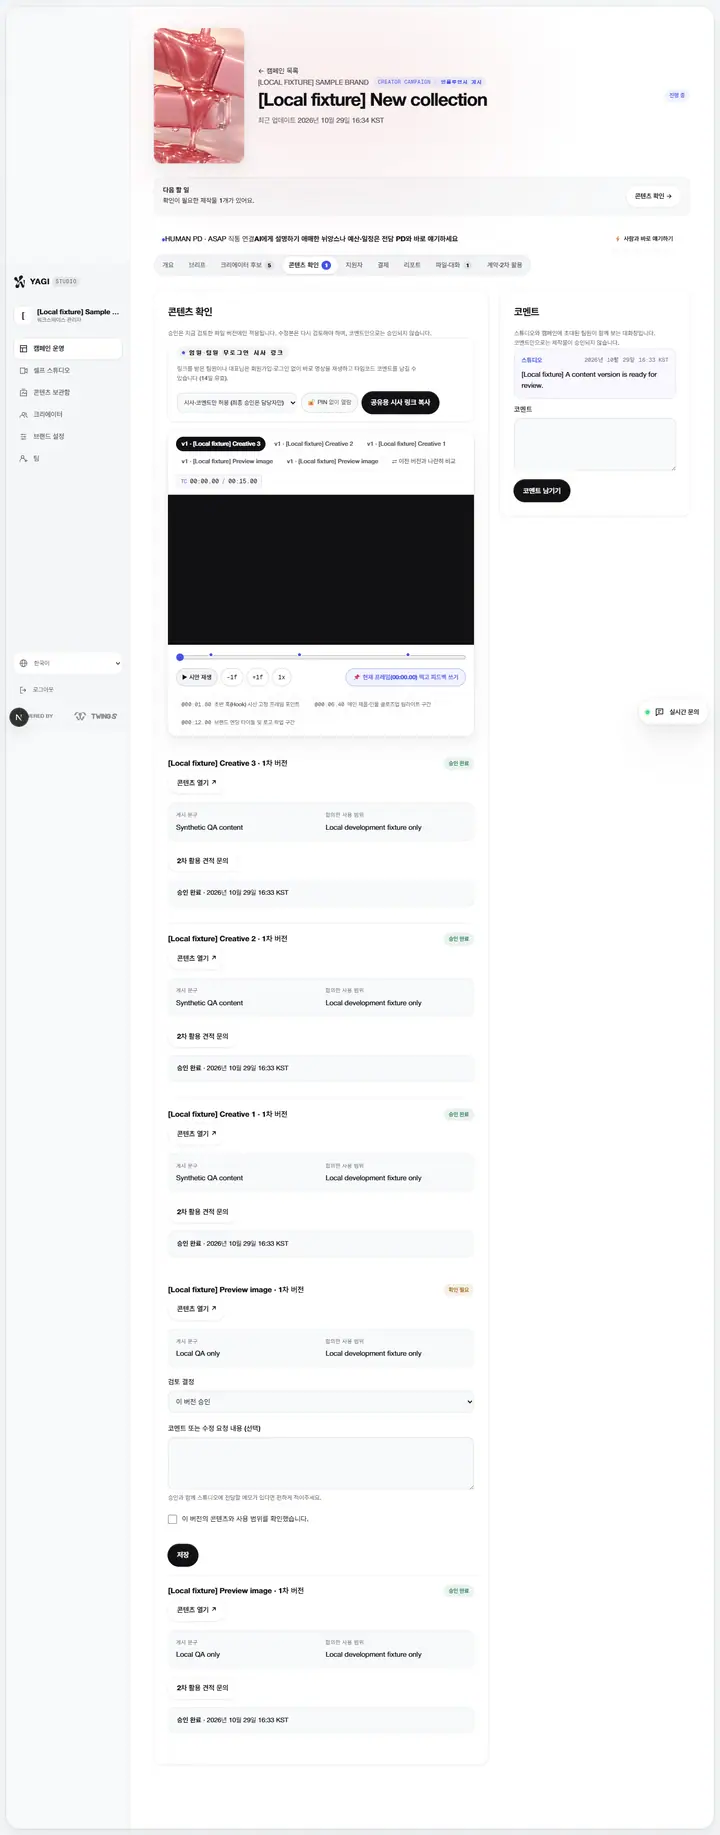
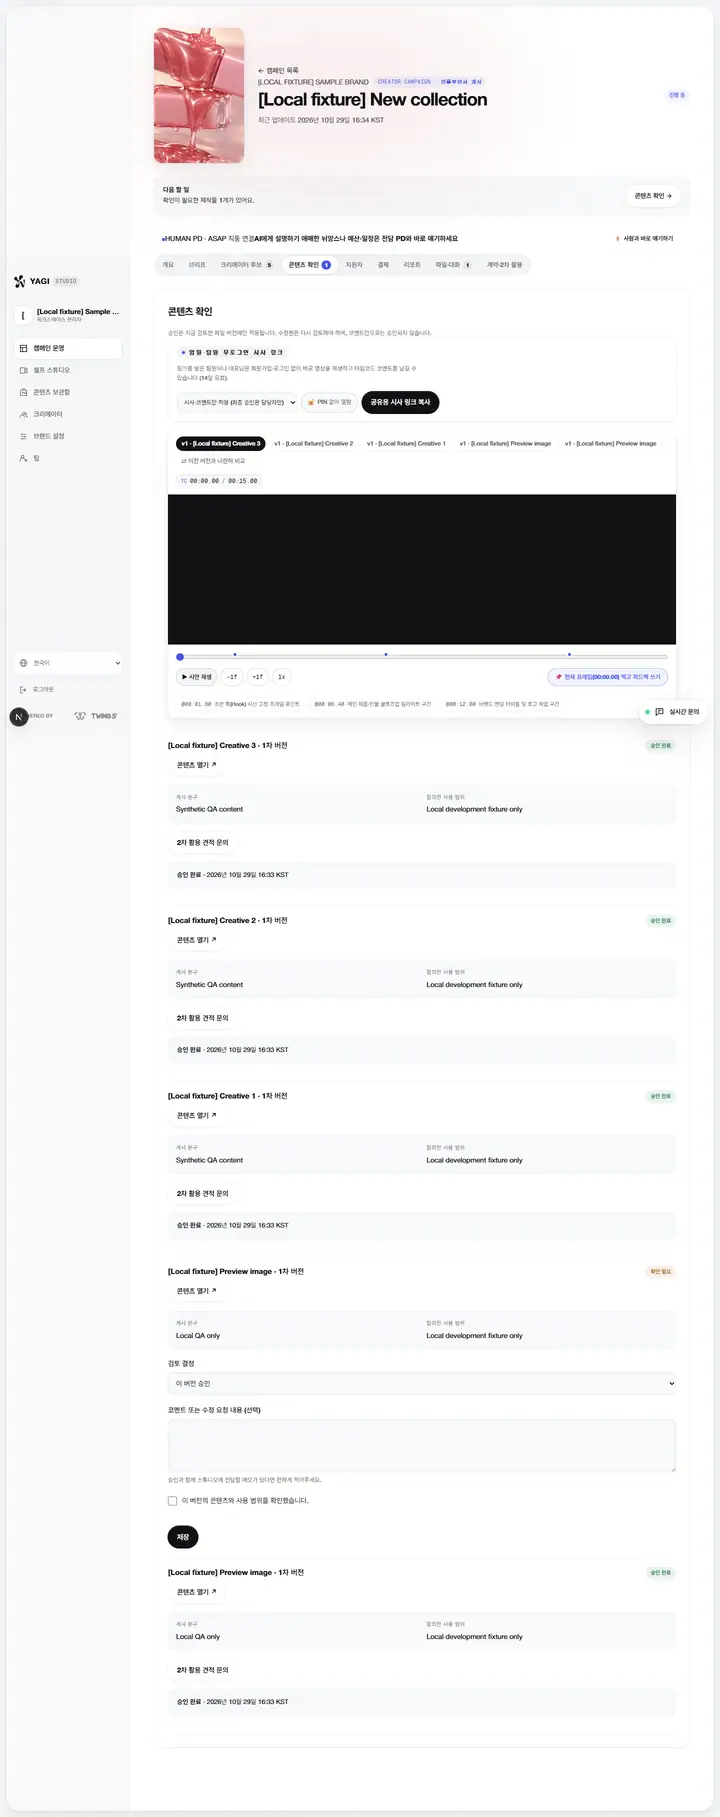
feat(brand): 캠페인 콘텐츠 확인·브리프 탭 오른쪽 대화 패널도 뺀다
대표 지시(2026-10-29, "Remove it too"): 오른쪽 레일 금지를 캠페인 화면의 대화 패널까지 넓힌다.
1024px 이상에서 콘텐츠 확인·브리프 탭 옆에 sticky로 붙던 #conversation 열을 브랜드 호스트에서만
없앤다. 탭은 자기 작업을 전체 폭으로 보이고, 대화는 "파일·대화" 탭에서 그대로 보인다.
/admin의 같은 화면(ProjectDetail 공유)은 기존 배치를 유지한다.

- workspace.css: :where([data-brand-workspace]) 층에서 두 탭의 .bw-grid-wide를 기본(contents)으로
  되돌리고 #conversation을 숨긴다.
- TASTE.md 기록 한 줄, 규칙 3을 "오른쪽 레일(활동·최근 작업·대화 패널) 없음"으로. TOOLBOX §1-2
  "쓰지 않는 것"도 같이. ICM design-taste-twings.
- 테스트: 활동 레일 규칙이 없고, 두 탭의 대화 패널을 브랜드 호스트에서 숨기는지 확인.

확인: 1440폭에서 #conversation이 콘텐츠 확인·브리프 탭에서 display:none, 파일·대화 탭에서 보임.
tsc 0, vitest 342 파일 / 3,273 테스트, build:local 0, sweep:anon 1165/1165. 캠페인 화면 캡처
(ko/en, 1440·390) 다시 찍음, 넘침·잘림·오류 0.

diff --git a/app/(brand)/workspace.css b/app/(brand)/workspace.css
@@ -3479,6 +3479,17 @@ html[data-brand-workspace]::view-transition-group(bw-tab-indicator) { animation-
   transition: opacity 900ms var(--ys-ease);
 }
 :where([data-brand-workspace]) .bw-bleed[data-bleed]::before { opacity: 0.15; }
+/* No right-hand conversation dock on the review and brief tabs (대표 2026-10-29: no right rails on
+   workspace screens). The tab shows only its own work; the conversation keeps its own tab. /admin
+   keeps the dock. */
+@media (min-width: 1024px) {
+  :where([data-brand-workspace]) .bw-project-sections[data-project-tab='review'] .bw-grid-wide,
+  :where([data-brand-workspace]) .bw-project-sections[data-project-tab='brief'] .bw-grid-wide,
+  :where([data-brand-workspace]) .bw-project-sections[data-project-tab='review'] .bw-grid-wide > div,
+  :where([data-brand-workspace]) .bw-project-sections[data-project-tab='brief'] .bw-grid-wide > div { display: contents; }
+  :where([data-brand-workspace]) .bw-project-sections[data-project-tab='review'] #conversation,
+  :where([data-brand-workspace]) .bw-project-sections[data-project-tab='brief'] #conversation { display: none; }
+}
 :where([data-brand-workspace]) .bw-project-cover { border: 0; border-radius: var(--ys-r-card); box-shadow: var(--ys-ring), var(--ys-shadow-2); }
 :where([data-brand-workspace]) .bw-project-cover img { object-fit: cover; }
 :where([data-brand-workspace]) .ys-kicker-badge,

diff --git a/tests/brands/workspace-taste.test.tsx b/tests/brands/workspace-taste.test.tsx
@@ -38,6 +38,14 @@ describe("brand workspace taste", () => {
     expect(bare.map((m) => rules.slice(m.index - 30, m.index + 20))).toEqual([]);
   });
 
+  it("keeps right-hand rails off the brand host: no activity rail, no conversation dock beside a tab", () => {
+    expect(css).not.toContain("[data-home-recent] .bw-content-grid");
+    for (const tab of ["review", "brief"]) {
+      expect(css).toContain(`:where([data-brand-workspace]) .bw-project-sections[data-project-tab='${tab}'] #conversation`);
+    }
+    expect(css).toContain("[data-project-tab='brief'] #conversation { display: none; }");
+  });
+
   it("draws the YAGI STUDIO lockup without the red live dot", () => {
     const lockup = renderToStaticMarkup(<YagiStudioLockup size={22} />);
     expect(lockup).toContain("data-yagi-studio-lockup");

diff --git a/docs/design/TASTE.md b/docs/design/TASTE.md
@@ -7,7 +7,7 @@
 
 1. 흰 바탕과 반투명을 쓴다. 잉크와 흰색에 블루 하나만 포인트로 쓴다. 블루는 화이트 톤과 어울리는 부드러운 울트라마린(brand.twings.app `--ys-accent` `#4355E8`)이다. 메인 키 컬러는 바뀔 수 있으니 화면 코드에 색 값을 직접 쓰지 않고 토큰 하나에서만 파생한다.
 2. 빨간 버튼, 빨간 점, 빨간 그라데이션을 쓰지 않는다. 전역 YAGI v1.2 레드는 TWINGS에 적용하지 않는다.
-3. 워크스페이스는 Playbook 앱 UI의 감도로 만든다. 미디어가 주인공이고, 여백이 넉넉하며, 조용한 사이드바와 pill 툴바를 쓴다. 오른쪽 활동·최근 작업 레일은 두지 않는다.
+3. 워크스페이스는 Playbook 앱 UI의 감도로 만든다. 미디어가 주인공이고, 여백이 넉넉하며, 조용한 사이드바와 pill 툴바를 쓴다. 오른쪽 레일(활동·최근 작업·대화 패널)은 두지 않는다.
 4. 흔한 평면 SaaS 대시보드처럼 보이면 실패다. 유리, 빛, 그림자, 스프링은 TOOLBOX.md에서 화면 목적에 맞게 3–4개만 고른다.
 5. 랜딩의 히어로는 정지 이미지가 아니라 영상이다. 문장형 제목은 전체 폭을 쓴다.
 6. 한국어는 사람이 쓴 창업자 톤으로 쓴다. AI스러운 문장(명사형 단편 제목, 기계적 병렬, 번역투)은 반려된다.
@@ -28,6 +28,7 @@
 | 2026-10-29 | brand.twings.app | 좋음 | Playbook 앱 화면 두 장 | 큰 라운드 프레임, 회색 사이드바, 큰 제목 + 개수 칩, pill 툴바, 라운드 미디어 그리드, 썸네일 위 다크 유리 칩, 활동 레일, 떠 있는 원형 이전/다음 | `C:\Users\User\Pictures\Screenshots\스크린샷 2026-10-29 153312.png`, `153355.png`(로컬, 커밋하지 않음) |
 | 2026-10-29 | 전체 | 방향 | 시각 지시 6개(유리, 림 하이라이트, 커서 조명, 에셋 색 번짐, 그레인, 떠 있는 HUD + 스프링)와 디자인 엔지니어링 툴박스 | 라이트 모드 기준, 화면별 3–4개 선택 | `docs/design/TOOLBOX.md` |
 | 2026-10-29 | brand.twings.app | 싫음 | "오른쪽 레일 죽여" | 워크스페이스 화면에 오른쪽 활동·최근 작업 레일을 두지 않는다. 홈의 최근 제작물은 캠페인 목록 아래에 둔다 | PR #122 |
+| 2026-10-29 | brand.twings.app 캠페인 | 싫음 | 콘텐츠 확인·브리프 탭 오른쪽 대화 패널도 "Remove it too" | 탭 옆에 대화 패널을 붙이지 않는다. 탭은 자기 작업만 보이고, 대화는 "파일·대화" 탭에서 본다 | PR #122 |
 | 2026-10-29 | brand.twings.app | 방향 | "블루는 좀 더 감각적인 느낌의 화이트 톤과 어울리는 블루로. 추후 메인 키 컬러가 변경될 것" | `#0000EE` 대신 부드러운 울트라마린 `#4355E8`(oklch 0.53 0.22 271, 흰 바탕 5.67:1). 블루는 `--ys-accent` 하나에서만 `color-mix`로 파생하고 hex를 따로 쓰지 않는다 | PR #122 |
 
 ## 승인된 우리 화면 캡처

diff --git a/docs/evidence/brand-workspace-taste/README.md b/docs/evidence/brand-workspace-taste/README.md
@@ -2,7 +2,7 @@
 
 대표 피드백 "의문의 빨간색 등장, 감도가 전혀 느껴지지 않는다"에 대한 작업이다.
 
-**2차 반영(같은 날 대표 지시):** "오른쪽 레일 죽여" → 홈의 오른쪽 활동 레일 제거, 최근 제작물은 캠페인 목록 아래로. "블루는 좀 더 감각적인, 화이트 톤과 어울리는 블루로(추후 메인 키 컬러 변경 예정)" → `#0000EE` 대신 부드러운 울트라마린 `#4355E8`(oklch 0.53 0.22 271). 블루는 `--ys-accent` 토큰 하나에서만 `color-mix`로 파생하고, 네이티브 체크박스도 `accent-color`로 같은 색을 쓴다. 키 컬러가 바뀌면 이 한 줄만 고치면 된다. 아래 after 캡처는 2차 반영 뒤의 화면이다. 기준은 `docs/design/TOOLBOX.md`·`docs/design/TASTE.md`, Playbook 앱 화면 두 장(로컬, 커밋하지 않음), 브랜드 랜딩(`/brands`)의 흰 바탕·잉크·블루 `#0000EE`.
+**2차 반영(같은 날 대표 지시):** "오른쪽 레일 죽여" → 홈의 오른쪽 활동 레일 제거, 최근 제작물은 캠페인 목록 아래로. 이어서 캠페인 콘텐츠 확인·브리프 탭 오른쪽에 붙던 대화 패널도 뺐다("Remove it too"). 대화는 "파일·대화" 탭에서 그대로 보인다(/admin은 기존 그대로). "블루는 좀 더 감각적인, 화이트 톤과 어울리는 블루로(추후 메인 키 컬러 변경 예정)" → `#0000EE` 대신 부드러운 울트라마린 `#4355E8`(oklch 0.53 0.22 271). 블루는 `--ys-accent` 토큰 하나에서만 `color-mix`로 파생하고, 네이티브 체크박스도 `accent-color`로 같은 색을 쓴다. 키 컬러가 바뀌면 이 한 줄만 고치면 된다. 아래 after 캡처는 2차 반영 뒤의 화면이다. 기준은 `docs/design/TOOLBOX.md`·`docs/design/TASTE.md`, Playbook 앱 화면 두 장(로컬, 커밋하지 않음), 브랜드 랜딩(`/brands`)의 흰 바탕·잉크·블루 `#0000EE`.
 
 ## 무엇이 바뀌었나
 

diff --git a/docs/design/TOOLBOX.md b/docs/design/TOOLBOX.md
@@ -37,7 +37,7 @@
   - 큰 볼드 제목과 개수 칩
   - 한 줄 pill 툴바
   - 라운드 미디어 그리드
-- **쓰지 않는 것:** 오른쪽 활동·최근 작업 레일(대표 2026-10-29 "오른쪽 레일 죽여", TASTE.md).
+- **쓰지 않는 것:** 오른쪽 레일. 활동·최근 작업 레일도, 탭 옆에 붙는 대화 패널도 두지 않는다(대표 2026-10-29, TASTE.md).
 - **우선 기법:**
   - Gallery Passepartout Framing
   - Multi-Layered Daylight Shadow
